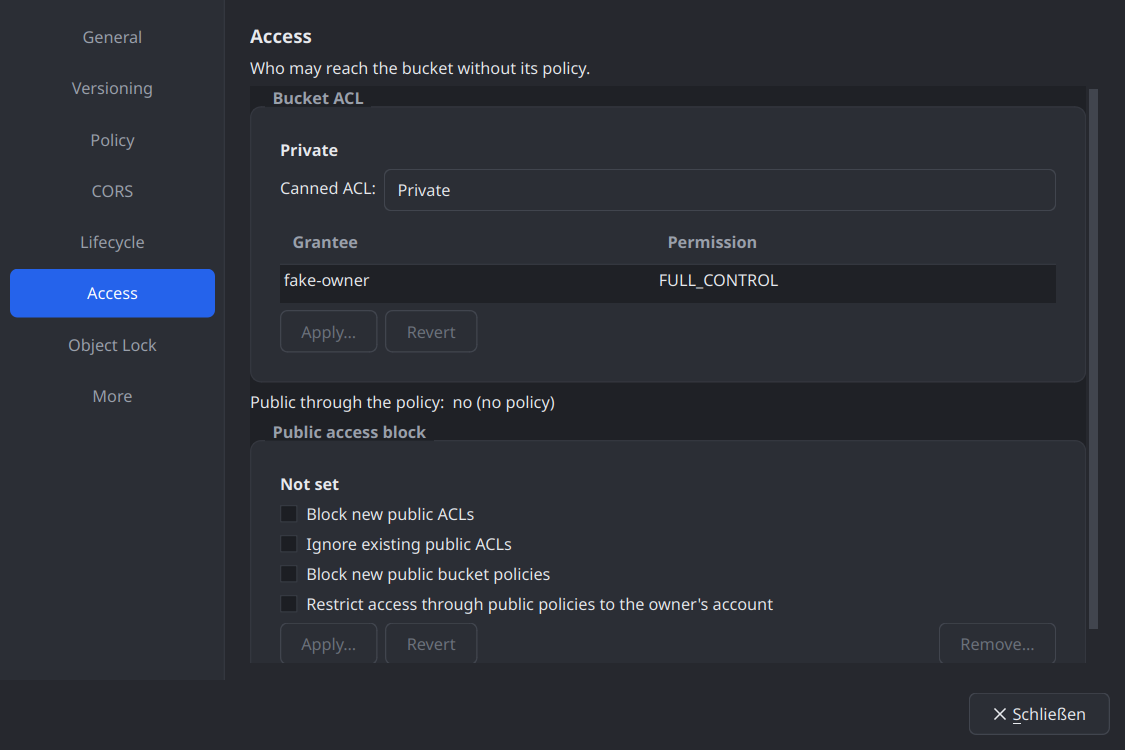
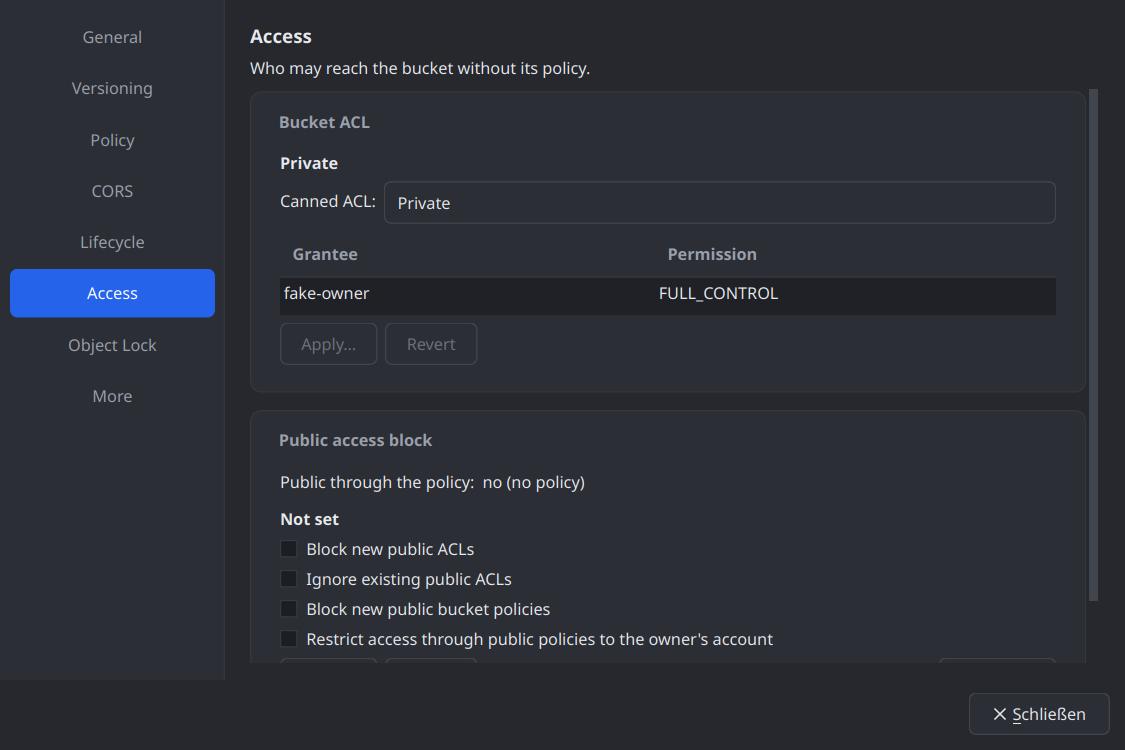
fix(ui): access page cards — no dark band, titles inside, status in its card
The Access page of Bucket Properties scrolls: QAbstractScrollArea's item-view
background (@win@) showed above, between and below the two group boxes, and
their titles sat on the border inside that darker band. The scroll area is
now #pageScroll (transparent, the page's own colour), QGroupBox cards carry
their title inside, aligned with the content, and "Public through the
policy" moved into the public access block card it belongs to.

diff --git a/src/ui/BucketPropertiesDialog.cpp b/src/ui/BucketPropertiesDialog.cpp
@@ -327,21 +327,26 @@ QWidget* BucketPropertiesDialog::buildAccessPage_()
 {
     const BucketConfigPage::Context ctx{m_account, m_bucket, m_sessions, m_ops, m_caps};
     auto* content = new QWidget;
+    content->setObjectName(QStringLiteral("pageScrollContent"));
     auto* lay = new QVBoxLayout(content);
-    lay->setContentsMargins(0, 0, 0, 0);
+    lay->setContentsMargins(0, 4, 0, 0);
+    lay->setSpacing(14);
     auto* aclBox = new QGroupBox(tr("Bucket ACL"));
     auto* aclLay = new QVBoxLayout(aclBox);
     m_acl = new AclSection(ctx);
     aclLay->addWidget(m_acl);
     lay->addWidget(aclBox);
+    auto* pabBox = new QGroupBox(tr("Public access block"));
+    auto* pabLay = new QVBoxLayout(pabBox);
+    // What the block's policy settings act on: whether the policy makes the
+    // bucket public.
     auto* statusRow = new QHBoxLayout;
     statusRow->addWidget(new QLabel(tr("Public through the policy:")));
     m_policyStatus = new QLabel(QStringLiteral("…"));
     m_policyStatus->setObjectName(QStringLiteral("policyStatus"));
     statusRow->addWidget(m_policyStatus, 1);
-    lay->addLayout(statusRow);
-    auto* pabBox = new QGroupBox(tr("Public access block"));
-    auto* pabLay = new QVBoxLayout(pabBox);
+    pabLay->addLayout(statusRow);
+    pabLay->addSpacing(6);
     m_pab = new PublicAccessBlockSection(ctx);
     pabLay->addWidget(m_pab);
     lay->addWidget(pabBox);
@@ -370,6 +375,7 @@ QWidget* BucketPropertiesDialog::buildAccessPage_()
     connect(m_acl, &BucketConfigPage::loaded, this, readStatus);
     connect(m_policy, &BucketConfigPage::loaded, this, readStatus);
     auto* scroll = new QScrollArea;
+    scroll->setObjectName(QStringLiteral("pageScroll"));   // the page's own background (QSS)
     scroll->setWidget(content);
     scroll->setWidgetResizable(true);
     scroll->setFrameShape(QFrame::NoFrame);

diff --git a/src/ui/DarkFusionStyle.cpp b/src/ui/DarkFusionStyle.cpp
@@ -183,8 +183,10 @@ QDockWidget { color: @text2@; }
 QDockWidget::title { background: @panel2@; border-top: 1px solid @border@; border-bottom: 1px solid @border@; padding: 6px 12px; text-align: left; }
 
 /* ---- Group box / check ---- */
-QGroupBox { border: 1px solid @border@; border-radius: 9px; margin-top: 16px; padding: 16px 14px 14px; background: @panel2@; font-weight: 600; }
-QGroupBox::title { subcontrol-origin: margin; subcontrol-position: top left; left: 12px; padding: 0 4px; color: @text2@; }
+/* A card with its title inside (not on the border, where it would sit on
+   whatever is behind the card). */
+QGroupBox { border: 1px solid @border@; border-radius: 9px; margin-top: 0; padding: 38px 14px 12px; background: @panel2@; font-weight: 600; }
+QGroupBox::title { subcontrol-origin: padding; subcontrol-position: top left; left: 20px; top: 14px; color: @text2@; }
 QCheckBox, QRadioButton { color: @text@; spacing: 7px; }
 
 /* ---- Splitter ---- */
@@ -214,6 +216,9 @@ QWidget#detailPane QTabBar::tab { padding: 8px 9px; }
 
 /* ---- Misc ---- */
 QScrollArea { border: none; background: @panel@; }
+/* A dialog page that scrolls shows the page, not the item-view background
+   QAbstractScrollArea gives its viewport. */
+QScrollArea#pageScroll, QScrollArea#pageScroll > QWidget, QWidget#pageScrollContent { background: transparent; }
 QProgressBar { border: 1px solid @border@; border-radius: 6px; background: @inset@; text-align: center; color: @text@; }
 QProgressBar::chunk { background: @accent@; border-radius: 5px; }
 )QSS";

diff --git a/tests/test_bucket_config_pages.cpp b/tests/test_bucket_config_pages.cpp
@@ -423,7 +423,7 @@ private slots:
 
     // QBUCKET_SCREENSHOT_DIR (with a real platform, or offscreen to look):
     // bucket-policy.png, bucket-lifecycle.png, bucket-object-lock.png,
-    // bucket-access.png.
+    // bucket-access.png, bucket-access-light.png.
     void screenshot()
     {
         const QString dir = qEnvironmentVariable("QBUCKET_SCREENSHOT_DIR");
@@ -472,6 +472,9 @@ private slots:
         shoot(BucketPropertiesDialog::LifecycleSettingsPage, nullptr, "bucket-lifecycle.png");
         shoot(BucketPropertiesDialog::ObjectLockSettingsPage, dlg->objectLockPage(), "bucket-object-lock.png");
         shoot(BucketPropertiesDialog::AccessSettingsPage, dlg->aclSection(), "bucket-access.png");
+        m_theme.apply(QStringLiteral("Light"));   // the cards on the light page
+        shoot(BucketPropertiesDialog::AccessSettingsPage, nullptr, "bucket-access-light.png");
+        m_theme.apply(QStringLiteral("Dark"));
         dlg->close();
 
         // Deleting the bucket with what is in it: the preview.

diff --git a/CLAUDE.md b/CLAUDE.md
@@ -444,6 +444,10 @@ Each of these cost time there; don't relearn them.
   themes, and `QTabWidget::pane { border-top }` has no effect. The QSS
   sets `QTabBar { qproperty-drawBase: 0; border-bottom: … @border@ }`;
   test `tabBarsUseThemedSeparator` guards it. (Same in xyz-profiler.)
+- **A dialog page in a `QScrollArea` shows the item-view background**
+  (`QAbstractScrollArea { background: @win@ }`) around and between its
+  cards. Such a scroll area is `#pageScroll` (transparent in the QSS); a
+  `QGroupBox` card has its title inside, not on the border.
 - **QtKeychain on Linux never says "no backend".** A missing keyring daemon
   comes back as `OtherError` ("Unknown error", or the D-Bus error), so
   SecretStore's session-only mode never started and an account couldn't be
